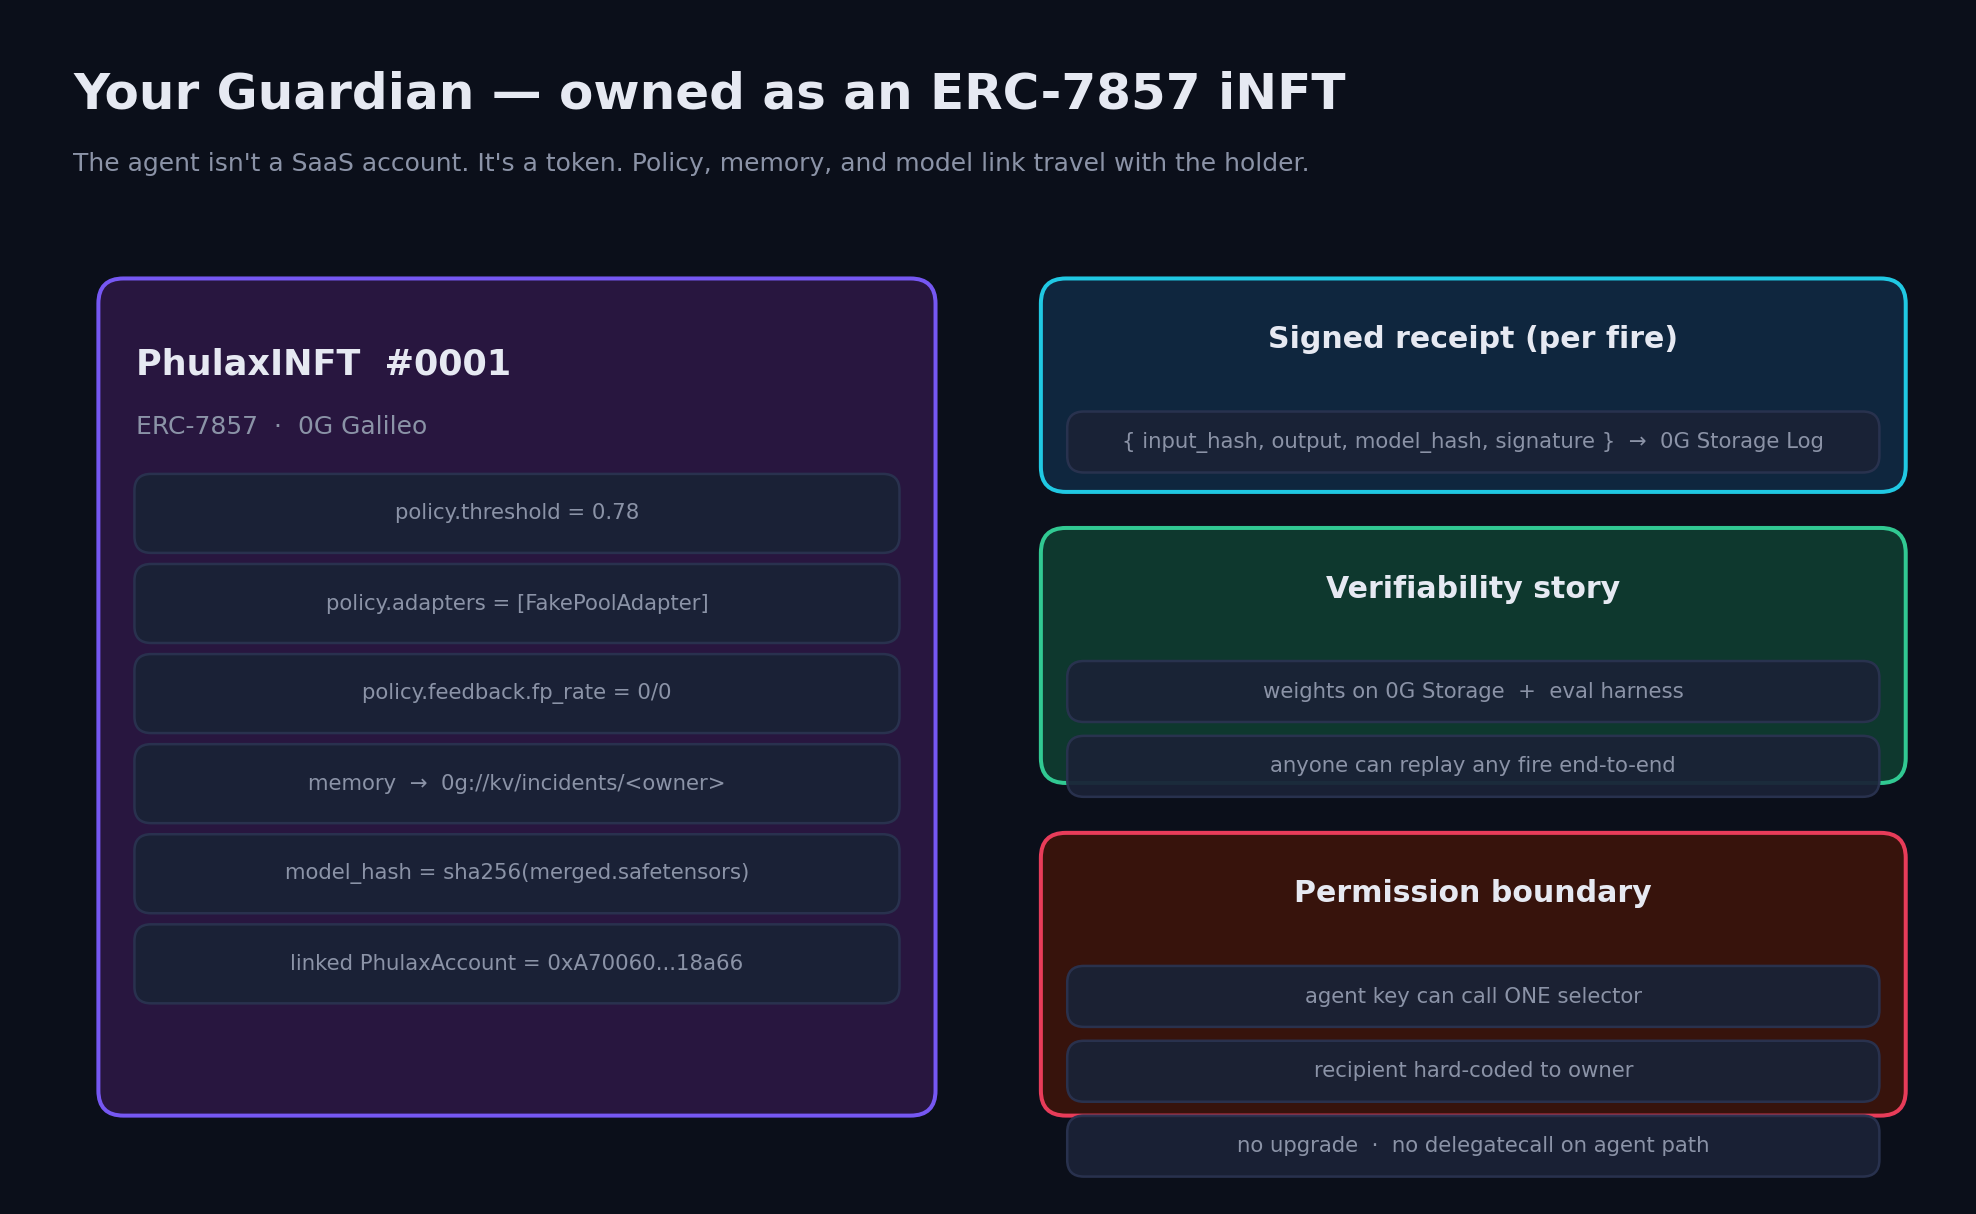
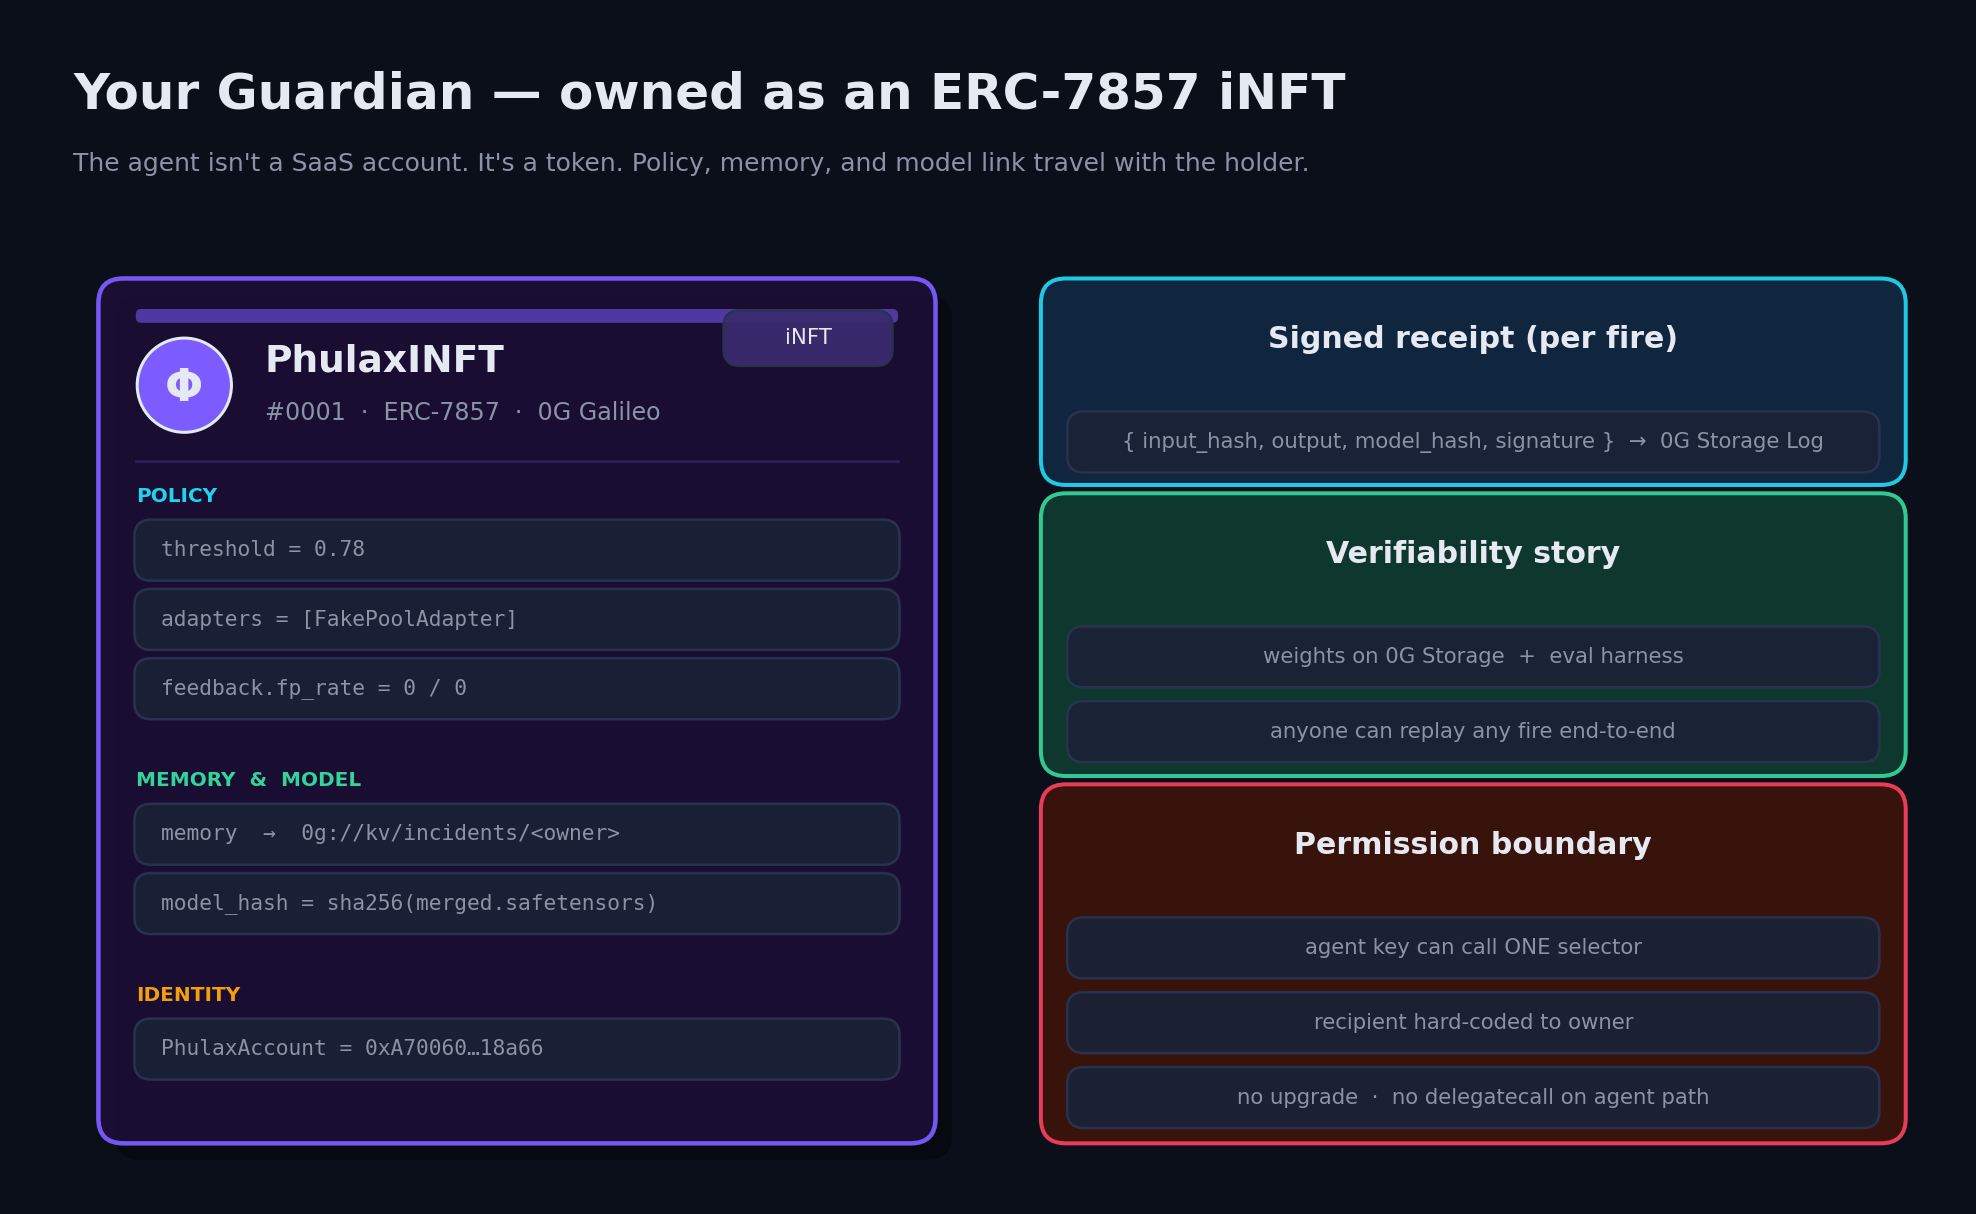
fixes on diagrams

diff --git a/scripts/render_diagrams.py b/scripts/render_diagrams.py
@@ -91,7 +91,7 @@ def panel_with_header(
         chip(ax, x + 0.18, cy, w - 0.36, chip_h, text)
 
 
-def chip(ax, x, y, w, h, text, *, fill="#1A2236", fg=MUTED, fs=8.5):
+def chip(ax, x, y, w, h, text, *, fill="#1A2236", fg=MUTED, fs=8.5, family=None, ha="center"):
     patch = FancyBboxPatch(
         (x, y),
         w,
@@ -103,7 +103,8 @@ def chip(ax, x, y, w, h, text, *, fill="#1A2236", fg=MUTED, fs=8.5):
         alpha=0.95,
     )
     ax.add_patch(patch)
-    ax.text(x + w / 2, y + h / 2, text, ha="center", va="center", color=fg, fontsize=fs)
+    tx = x + w / 2 if ha == "center" else x + 0.18
+    ax.text(tx, y + h / 2, text, ha=ha, va="center", color=fg, fontsize=fs, family=family)
 
 
 def simple_box(ax, x, y, w, h, text, *, fill=ACCENT, edge=None, fg=FG, fs=11, weight="bold"):
@@ -398,46 +399,123 @@ def render_inft_card():
         "The agent isn't a SaaS account. It's a token. Policy, memory, and model link travel with the holder.",
     )
 
-    # iNFT body
-    panel(ax, 0.6, 0.6, 6.0, 6.0, fill="#2A1742", edge=ACCENT)
+    # ---------- Left: token card ----------
+    # subtle drop-shadow
+    panel(ax, 0.72, 0.28, 6.0, 6.20, fill="#000000", edge="#000000", alpha=0.35, lw=0)
+    # main panel — extended down to share y-range with the right column
+    panel(ax, 0.6, 0.4, 6.0, 6.20, fill="#1B0F35", edge=ACCENT, lw=1.8)
+
+    # accent ribbon — top inner edge
+    ribbon = FancyBboxPatch(
+        (0.85, 6.30),
+        5.5,
+        0.10,
+        boxstyle="round,pad=0,rounding_size=0.04",
+        linewidth=0,
+        facecolor=ACCENT,
+        alpha=0.55,
+    )
+    ax.add_patch(ribbon)
+
+    # token avatar — circle + glyph
+    avatar = plt.Circle(
+        (1.20, 5.85), 0.34, facecolor=ACCENT, edgecolor=FG, linewidth=1.2, zorder=3
+    )
+    ax.add_patch(avatar)
     ax.text(
-        0.85,
-        6.0,
-        "PhulaxINFT  #0001",
+        1.20,
+        5.83,
+        "Φ",
+        ha="center",
+        va="center",
+        color=FG,
+        fontsize=18,
+        fontweight="bold",
+        zorder=4,
+    )
+
+    # title block
+    ax.text(
+        1.78,
+        6.02,
+        "PhulaxINFT",
         ha="left",
         va="center",
         color=FG,
-        fontsize=14,
+        fontsize=15,
         fontweight="bold",
     )
-    ax.text(0.85, 5.55, "ERC-7857  ·  0G Galileo", ha="left", va="center", color=MUTED, fontsize=10)
+    ax.text(
+        1.78,
+        5.65,
+        "#0001  ·  ERC-7857  ·  0G Galileo",
+        ha="left",
+        va="center",
+        color=MUTED,
+        fontsize=9.5,
+    )
 
-    chip(ax, 0.85, 4.65, 5.5, 0.55, "policy.threshold = 0.78")
-    chip(ax, 0.85, 4.00, 5.5, 0.55, "policy.adapters = [FakePoolAdapter]")
-    chip(ax, 0.85, 3.35, 5.5, 0.55, "policy.feedback.fp_rate = 0/0")
-    chip(ax, 0.85, 2.70, 5.5, 0.55, "memory  →  0g://kv/incidents/<owner>")
-    chip(ax, 0.85, 2.05, 5.5, 0.55, "model_hash = sha256(merged.safetensors)")
-    chip(ax, 0.85, 1.40, 5.5, 0.55, "linked PhulaxAccount = 0xA70060...18a66")
+    # corner mini-badge
+    chip(ax, 5.10, 6.00, 1.20, 0.38, "iNFT", fill="#3A2B6E", fg=FG, fs=8.5)
 
-    # right column
+    # divider
+    ax.plot([0.85, 6.35], [5.30, 5.30], color="#3A2B6E", lw=1.0, alpha=0.7)
+
+    def _section(y, label, color):
+        ax.text(
+            0.85,
+            y,
+            label,
+            ha="left",
+            va="center",
+            color=color,
+            fontsize=8,
+            fontweight="bold",
+        )
+
+    def _mono(y, text):
+        chip(ax, 0.85, y, 5.5, 0.42, text, family="monospace", ha="left", fs=8.5)
+
+    # POLICY
+    _section(5.05, "POLICY", ACCENT2)
+    _mono(4.45, "threshold = 0.78")
+    _mono(3.95, "adapters = [FakePoolAdapter]")
+    _mono(3.45, "feedback.fp_rate = 0 / 0")
+
+    # MEMORY & MODEL
+    _section(3.00, "MEMORY  &  MODEL", OK)
+    _mono(2.40, "memory  →  0g://kv/incidents/<owner>")
+    _mono(1.90, "model_hash = sha256(merged.safetensors)")
+
+    # IDENTITY
+    _section(1.45, "IDENTITY", WARN)
+    _mono(0.85, "PhulaxAccount = 0xA70060…18a66")
+
+    # ---------- Right column: per-panel heights sized to chip count ----------
+    # Range matches the card: y in [0.40, 6.60].
+    # Panel heights satisfy h ≥ 1.37 + (n-1)*0.54 so chips don't overflow.
+    rx, rw = 7.4, 6.2
+
+    # Top: Signed receipt (1 chip)
     panel_with_header(
         ax,
-        7.4,
-        5.1,
-        6.2,
-        1.5,
+        rx,
+        5.15,
+        rw,
+        1.45,
         "Signed receipt (per fire)",
         chips=["{ input_hash, output, model_hash, signature }  →  0G Storage Log"],
         fill="#102841",
         edge=ACCENT2,
     )
 
+    # Middle: Verifiability (2 chips)
     panel_with_header(
         ax,
-        7.4,
-        3.0,
-        6.2,
-        1.8,
+        rx,
+        3.05,
+        rw,
+        2.00,
         "Verifiability story",
         chips=[
             "weights on 0G Storage  +  eval harness",
@@ -447,12 +525,13 @@ def render_inft_card():
         edge=OK,
     )
 
+    # Bottom: Permission boundary (3 chips)
     panel_with_header(
         ax,
-        7.4,
-        0.6,
-        6.2,
-        2.0,
+        rx,
+        0.40,
+        rw,
+        2.55,
         "Permission boundary",
         chips=[
             "agent key can call ONE selector",
